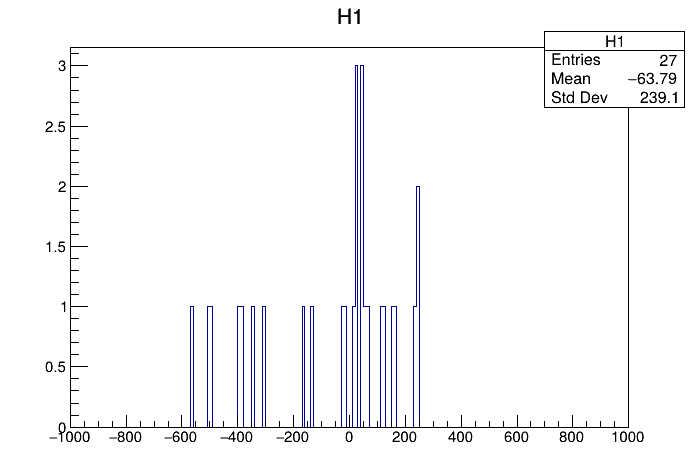
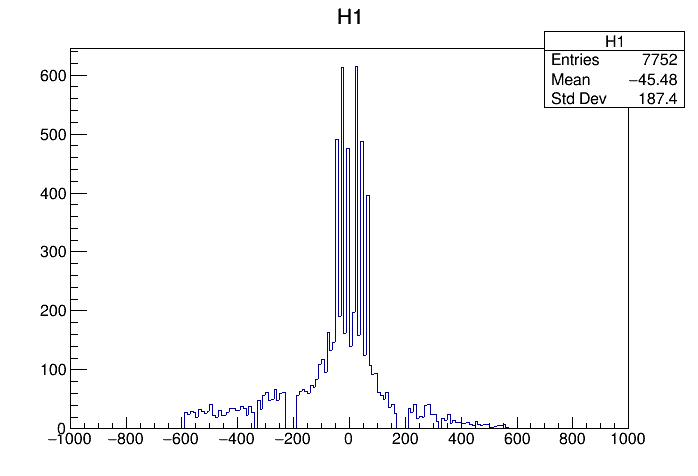
positive z axis for pixhits

diff --git a/mu3e/pixhits.c b/mu3e/pixhits.c
@@ -99,9 +99,10 @@ void pixhits()
 
     mu3e_tree->SetBranchAddress("tilehit_tile", &tile_hit_ids);
     mu3e_tree->SetBranchAddress("hit_pixelid", &pix_hit_ids);
+    auto canvas3 = new TCanvas();
 
     //for (int i = 0; i < mu3e_tree->GetEntries(); ++i)
-    for (int i = 2; i < 3; ++i)
+    for (int i = 0; i < 100; ++i)
     {
         mu3e_tree->GetEntry(i);
         for (int j = 0; j < pix_hit_ids->size(); ++j)
@@ -114,7 +115,8 @@ void pixhits()
             pix_z_distribution->Fill(pix_z);
             pix_r_distribution->Fill(pix_r);
             //select only hits in 2 recurl stations.
-            if (pix_z < -200)
+            //if (pix_z < -200)
+            if (pix_z<-200 or pix_z > 200)
             {
                 if (pix_r>70 and pix_r < 75)
                 {
@@ -132,42 +134,29 @@ void pixhits()
             Double_t tile_x = GetTileXYZ((*tile_hit_ids)[j])[0];
             Double_t tile_y = GetTileXYZ((*tile_hit_ids)[j])[1];
             Double_t tile_z = GetTileXYZ((*tile_hit_ids)[j])[2];
-            if (tile_z < 0)
+            //if (tile_z < 0)
+            if(true)
             {
                 tile_hits->AddPoint(tile_z, atan2(tile_y, tile_x));
             };
         };
-
-        //projected hits based on mc origin data (vertex position and start impulse)
-
-        for (int j = 0; j < pid->size(); ++j)
-        {
-            int charge = 0;
-            if (pid->at(j) == 11) {charge = 1;}
-            else if (pid->at(j) == -11) {charge = -1;}
-            else continue;
-
-            //std::cout << pid->at(j) << std::endl << vx->at(j) << std::endl << vy->at(j) << std::endl << vz->at(j) << std::endl << px->at(j) << std::endl << py->at(j) << std::endl << pz->at(j) << std::endl;
-            ROOT::Math::XYZVector B(0,0,0.0001);
-            ROOT::Math::XYZPoint origin(vx->at(j), vy->at(j), vz->at(j));
-            ROOT::Math::XYZVector impulse (px->at(j), py->at(j), pz->at(j));
-            double radius = sqrt(impulse.Mag2()/B.Mag2());
-            std::cout << radius << std::endl;
-            ROOT::Math::XYZPoint spiral_point;
-            spiral_point = origin + charge*(impulse.Cross(B)).Unit()*radius; //could be minus charge
-            double r = 72.8849;
-            ROOT::Math::XYZPoint I1;
-            ROOT::Math::XYZPoint I2;
-            ROOT::Math::XYZPoint zero(0,0,vz->at(j));
-            ROOT::Math::XYZPoint P = zero + (r*r - radius*radius + (spiral_point - zero).Mag2())/(2*sqrt((spiral_point - zero).Mag2()))*(spiral_point-zero).Unit();
-            I1 = P + sqrt(r*r-P.Mag2())*((P-zero).Cross(B).Unit());
-            I2 = P - sqrt(r*r-P.Mag2())*((P-zero).Cross(B).Unit());
-            //std::cout << spiral_point.X() << std::endl << spiral_point.Y() << std::endl << spiral_point.Z() << std::endl;
-            
-            //std::cout << I2 << std::endl;
-
-
-        };
+        outer_pix_hits->SetMinimum(-3.15);
+        outer_pix_hits->SetMaximum(+3.15);
+        outer_pix_hits->GetXaxis()->SetLimits(-650, 650);
+        outer_pix_hits->Draw("AP");
+        inner_pix_hits->Draw("P");
+        tile_hits->Draw("P");
+        string numberstr = std::to_string(i);
+        char path[24] = "./Images/Tracking/frame";
+        char png[5] = ".png";
+        const char* number(numberstr.c_str());
+        std::strcat(path, number);
+        std::strcat(path,png);
+        canvas3->SaveAs(path);
+        canvas3->Clear();
+        outer_pix_hits->Set(0);
+        inner_pix_hits->Set(0);
+        tile_hits->Set(0);
     };
 
 
@@ -179,15 +168,5 @@ void pixhits()
     auto canvas2 = new TCanvas();
     pix_r_distribution->Draw();
     canvas2->SaveAs("./Images/Tracking/Pixel R Distribution.png");
-
-
-    auto canvas3 = new TCanvas();
-    outer_pix_hits->SetMinimum(-3.15);
-    outer_pix_hits->SetMaximum(+3.15);
-    outer_pix_hits->GetXaxis()->SetLimits(-650, -200);
-    outer_pix_hits->Draw("AP");
-    inner_pix_hits->Draw("P");
-    tile_hits->Draw("P");
-    canvas3->SaveAs("./Images/Tracking/BasicTracking.png");
 
 }
